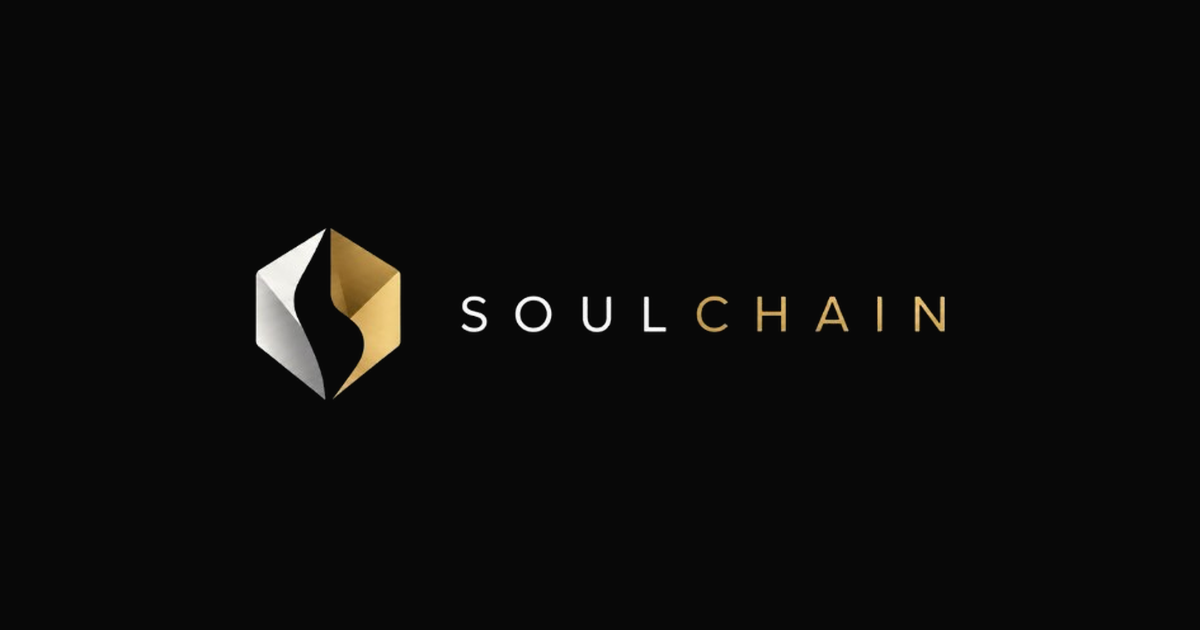
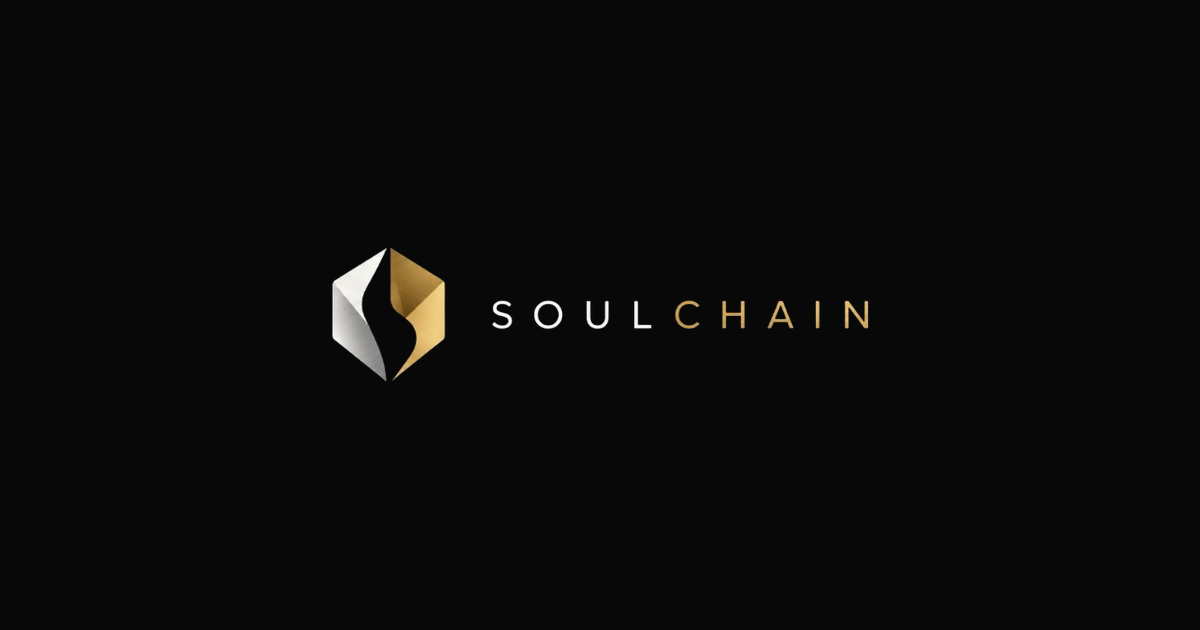
Preview from og-share.png, sized to survive a square crop
og:image and twitter:image point back at assets/og-share.png, with
og:image:width/height/type and an alt, twitter:card summary_large_image, and
max-image-preview back to large so Google is permitted a thumbnail at all.
Organization.logo returns to favicon.png — square, as that slot expects.

The image itself needed one correction to meet "never partially cropped".
1200x630 is rendered whole by Facebook and WhatsApp, but Google draws its
result thumbnail as a 1:1 centre crop, keeping only the middle 630px of
width. The logo measured 690px of ink, so Google clipped 30px from each side:
the edge of the mark and the last letter.

make-og-image.py now sizes the logo to 536px of ink, inside that 630px square
with 47px of margin either side, so the wordmark survives both the wide card
and the square crop intact. The artwork is untouched — only its scale on the
canvas changed, which is placement, not a redraw. The canvas stays 1200x630,
opaque #080808, so nothing is lost to a crawler flattening transparency.

prerender-seo.ts deliberately does not patch og:image: every page shares one
image, so the tag passes through from index.html unaltered. Verified it
contains no og:image handling that could overwrite or drop it.

Checked for duplicates in both source and build — exactly one og:image, one
twitter:image, one twitter:card and one robots tag per page, identical across
all six public pages.

Untouched: favicon, canonical, titles, descriptions, the footer logo the page
[…]

Changed region(s): [[0.185, 0.3619, 0.8017, 0.6333]]

diff --git a/client/src/lib/seo.ts b/client/src/lib/seo.ts
@@ -20,18 +20,28 @@ const PLAY_STORE_URL = "https://play.google.com/store/apps/details?id=ai.epineon
 export const SITE_ORIGIN = "https://soulchain.net";
 export const SITE_NAME = "SOULCHAIN";
 /**
- * No sharing image is published, by request.
+ * The link-preview image: assets/og-share.png, the brand logo on the site's
+ * own #080808, fully opaque so nothing is lost to a crawler flattening it.
  *
- * og:image, twitter:image and schema.org Organization.logo are all absent, so
- * nothing here nominates a picture for a link preview or a search result. The
- * robots directive carries `max-image-preview:none`, which is the only actual
- * control over Google's thumbnail: without it Google may pick any image on the
- * page, and dropping og:image alone would not stop it.
+ * 1200x630 (1.905:1) is what Facebook and WhatsApp render as a full-width
+ * card. Google draws its result thumbnail as a 1:1 centre crop, which keeps
+ * only the middle 630px, so scripts/make-og-image.py sizes the logo to 536px
+ * of ink — inside that square with 47px of margin either side. The wordmark
+ * therefore survives both the wide card and the square crop whole.
  *
- * Indexing is untouched — still `index, follow`. The favicon is untouched too,
- * and still appears beside a Google result; that is a separate slot from the
- * thumbnail and was explicitly left alone.
+ * Changing the canvas or the logo scale means rerunning that script; the
+ * dimensions below must keep matching the file.
  */
+export const DEFAULT_OG_IMAGE = `${SITE_ORIGIN}/assets/og-share.png`;
+export const DEFAULT_OG_IMAGE_ALT = "SOULCHAIN";
+export const DEFAULT_OG_IMAGE_WIDTH = 1200;
+export const DEFAULT_OG_IMAGE_HEIGHT = 630;
+
+/**
+ * schema.org/Organization wants the organisation's square logo rather than
+ * the wide card. favicon.png is the SOULCHAIN mark at 512x512.
+ */
+export const ORGANIZATION_LOGO = `${SITE_ORIGIN}/favicon.png`;
 
 export interface RouteSeo {
   title: string;
@@ -172,6 +182,7 @@ function siteGraph(): JsonLd[] {
       name: SITE_NAME,
       alternateName: "SoulChain",
       url: `${SITE_ORIGIN}/`,
+      logo: { "@type": "ImageObject", url: ORGANIZATION_LOGO, width: 512, height: 512 },
       description,
       sameAs: [INSTAGRAM_URL],
       contactPoint: {
@@ -314,7 +325,7 @@ export function applySeo(rawPath: string, language: "en" | "fr" = "en") {
   upsertLink("canonical", canonical);
   upsertMeta(
     { name: "robots" },
-    noindex ? "noindex, nofollow" : "index, follow, max-image-preview:none"
+    noindex ? "noindex, nofollow" : "index, follow, max-image-preview:large"
   );
 
   upsertMeta({ property: "og:title" }, title);
@@ -322,12 +333,18 @@ export function applySeo(rawPath: string, language: "en" | "fr" = "en") {
   upsertMeta({ property: "og:url" }, canonical);
   upsertMeta({ property: "og:type" }, "website");
   upsertMeta({ property: "og:site_name" }, SITE_NAME);
+  upsertMeta({ property: "og:image" }, DEFAULT_OG_IMAGE);
+  upsertMeta({ property: "og:image:width" }, String(DEFAULT_OG_IMAGE_WIDTH));
+  upsertMeta({ property: "og:image:height" }, String(DEFAULT_OG_IMAGE_HEIGHT));
+  upsertMeta({ property: "og:image:alt" }, DEFAULT_OG_IMAGE_ALT);
+  upsertMeta({ property: "og:image:type" }, "image/png");
 
-  // No image is declared, so the text-only card is the honest one;
-  // "summary_large_image" announces a large picture that does not exist.
-  upsertMeta({ name: "twitter:card" }, "summary");
+  // 1200x630 is a wide card, so X should draw it full width.
+  upsertMeta({ name: "twitter:card" }, "summary_large_image");
   upsertMeta({ name: "twitter:title" }, title);
   upsertMeta({ name: "twitter:description" }, description);
+  upsertMeta({ name: "twitter:image" }, DEFAULT_OG_IMAGE);
+  upsertMeta({ name: "twitter:image:alt" }, DEFAULT_OG_IMAGE_ALT);
 
   upsertStructuredData(structuredDataForPath(rawPath));
 }

diff --git a/client/index.html b/client/index.html
@@ -19,7 +19,7 @@
     
     <meta name="description" content="SOULCHAIN is a peer learning platform pairing a daily insight with a peer network matched on how you think. For founders, community builders and teams.">
     <meta name="keywords" content="SOULCHAIN, Cognitive Assistant, Strategic Thinking, Leadership, Entrepreneurship">
-    <meta name="robots" content="index, follow, max-image-preview:none">
+    <meta name="robots" content="index, follow, max-image-preview:large">
     <meta name="google-site-verification" content="zs6Zj4nk1hNEpN3n1eTI7OS-egaYlOJwisrpA2BuFHk" />
 
     <!-- Open Graph. Per-route values are patched at runtime by RouteSeo. -->
@@ -30,11 +30,18 @@
     <meta property="og:url" content="https://soulchain.net/">
     <meta property="og:title" content="Peer Learning Platform for Founders &amp; Leaders | SOULCHAIN">
     <meta property="og:description" content="SOULCHAIN is a peer learning platform pairing a daily insight with a peer network matched on how you think. For founders, community builders and teams.">
+    <meta property="og:image" content="https://soulchain.net/assets/og-share.png">
+    <meta property="og:image:width" content="1200">
+    <meta property="og:image:height" content="630">
+    <meta property="og:image:type" content="image/png">
+    <meta property="og:image:alt" content="SOULCHAIN">
 
-    <meta name="twitter:card" content="summary">
+    <meta name="twitter:card" content="summary_large_image">
     <meta name="twitter:url" content="https://soulchain.net/">
     <meta name="twitter:title" content="Peer Learning Platform for Founders &amp; Leaders | SOULCHAIN">
     <meta name="twitter:description" content="SOULCHAIN is a peer learning platform pairing a daily insight with a peer network matched on how you think. For founders, community builders and teams.">
+    <meta name="twitter:image" content="https://soulchain.net/assets/og-share.png">
+    <meta name="twitter:image:alt" content="SOULCHAIN">
 
     <!-- Site-level Schema.org graph, generated from structuredDataForPath() in
          client/src/lib/seo.ts. prerender-seo.ts and RouteSeo swap in each page's
@@ -49,6 +56,12 @@
           "name": "SOULCHAIN",
           "alternateName": "SoulChain",
           "url": "https://soulchain.net/",
+          "logo": {
+            "@type": "ImageObject",
+            "url": "https://soulchain.net/favicon.png",
+            "width": 512,
+            "height": 512
+          },
           "description": "SOULCHAIN is a peer learning platform pairing a daily insight with a peer network matched on how you think. For founders, community builders and teams.",
           "sameAs": [
             "https://www.instagram.com/epiminded.ai/"

diff --git a/scripts/make-og-image.py b/scripts/make-og-image.py
@@ -31,7 +31,19 @@ TARGET = os.path.join(ASSETS, "og-share.png")
 
 WIDTH, HEIGHT = 1200, 630
 BACKGROUND = (8, 8, 8)          # --background on .dark, and body's own colour
-LOGO_WIDTH = 720                # 60% of the canvas: clear in a chat thumbnail
+
+# The logo has to survive the squarest crop any platform applies.
+#
+# 1200x630 is what Facebook and WhatsApp render whole, but Google draws its
+# result thumbnail as a 1:1 centre crop, which keeps only the middle 630px of
+# width. At the previous 720 the logo's ink measured 690px, so Google clipped
+# 30px from each side — the edge of the mark and the last letter.
+#
+# 560 puts the ink near 536px, inside that 630px square with ~47px of margin
+# either side, so the whole wordmark survives both the 1.91:1 card and the 1:1
+# crop. The artwork is untouched; only its scale on the canvas changed.
+SAFE_SQUARE = min(WIDTH, HEIGHT)
+LOGO_WIDTH = 560
 
 
 def main() -> None:
